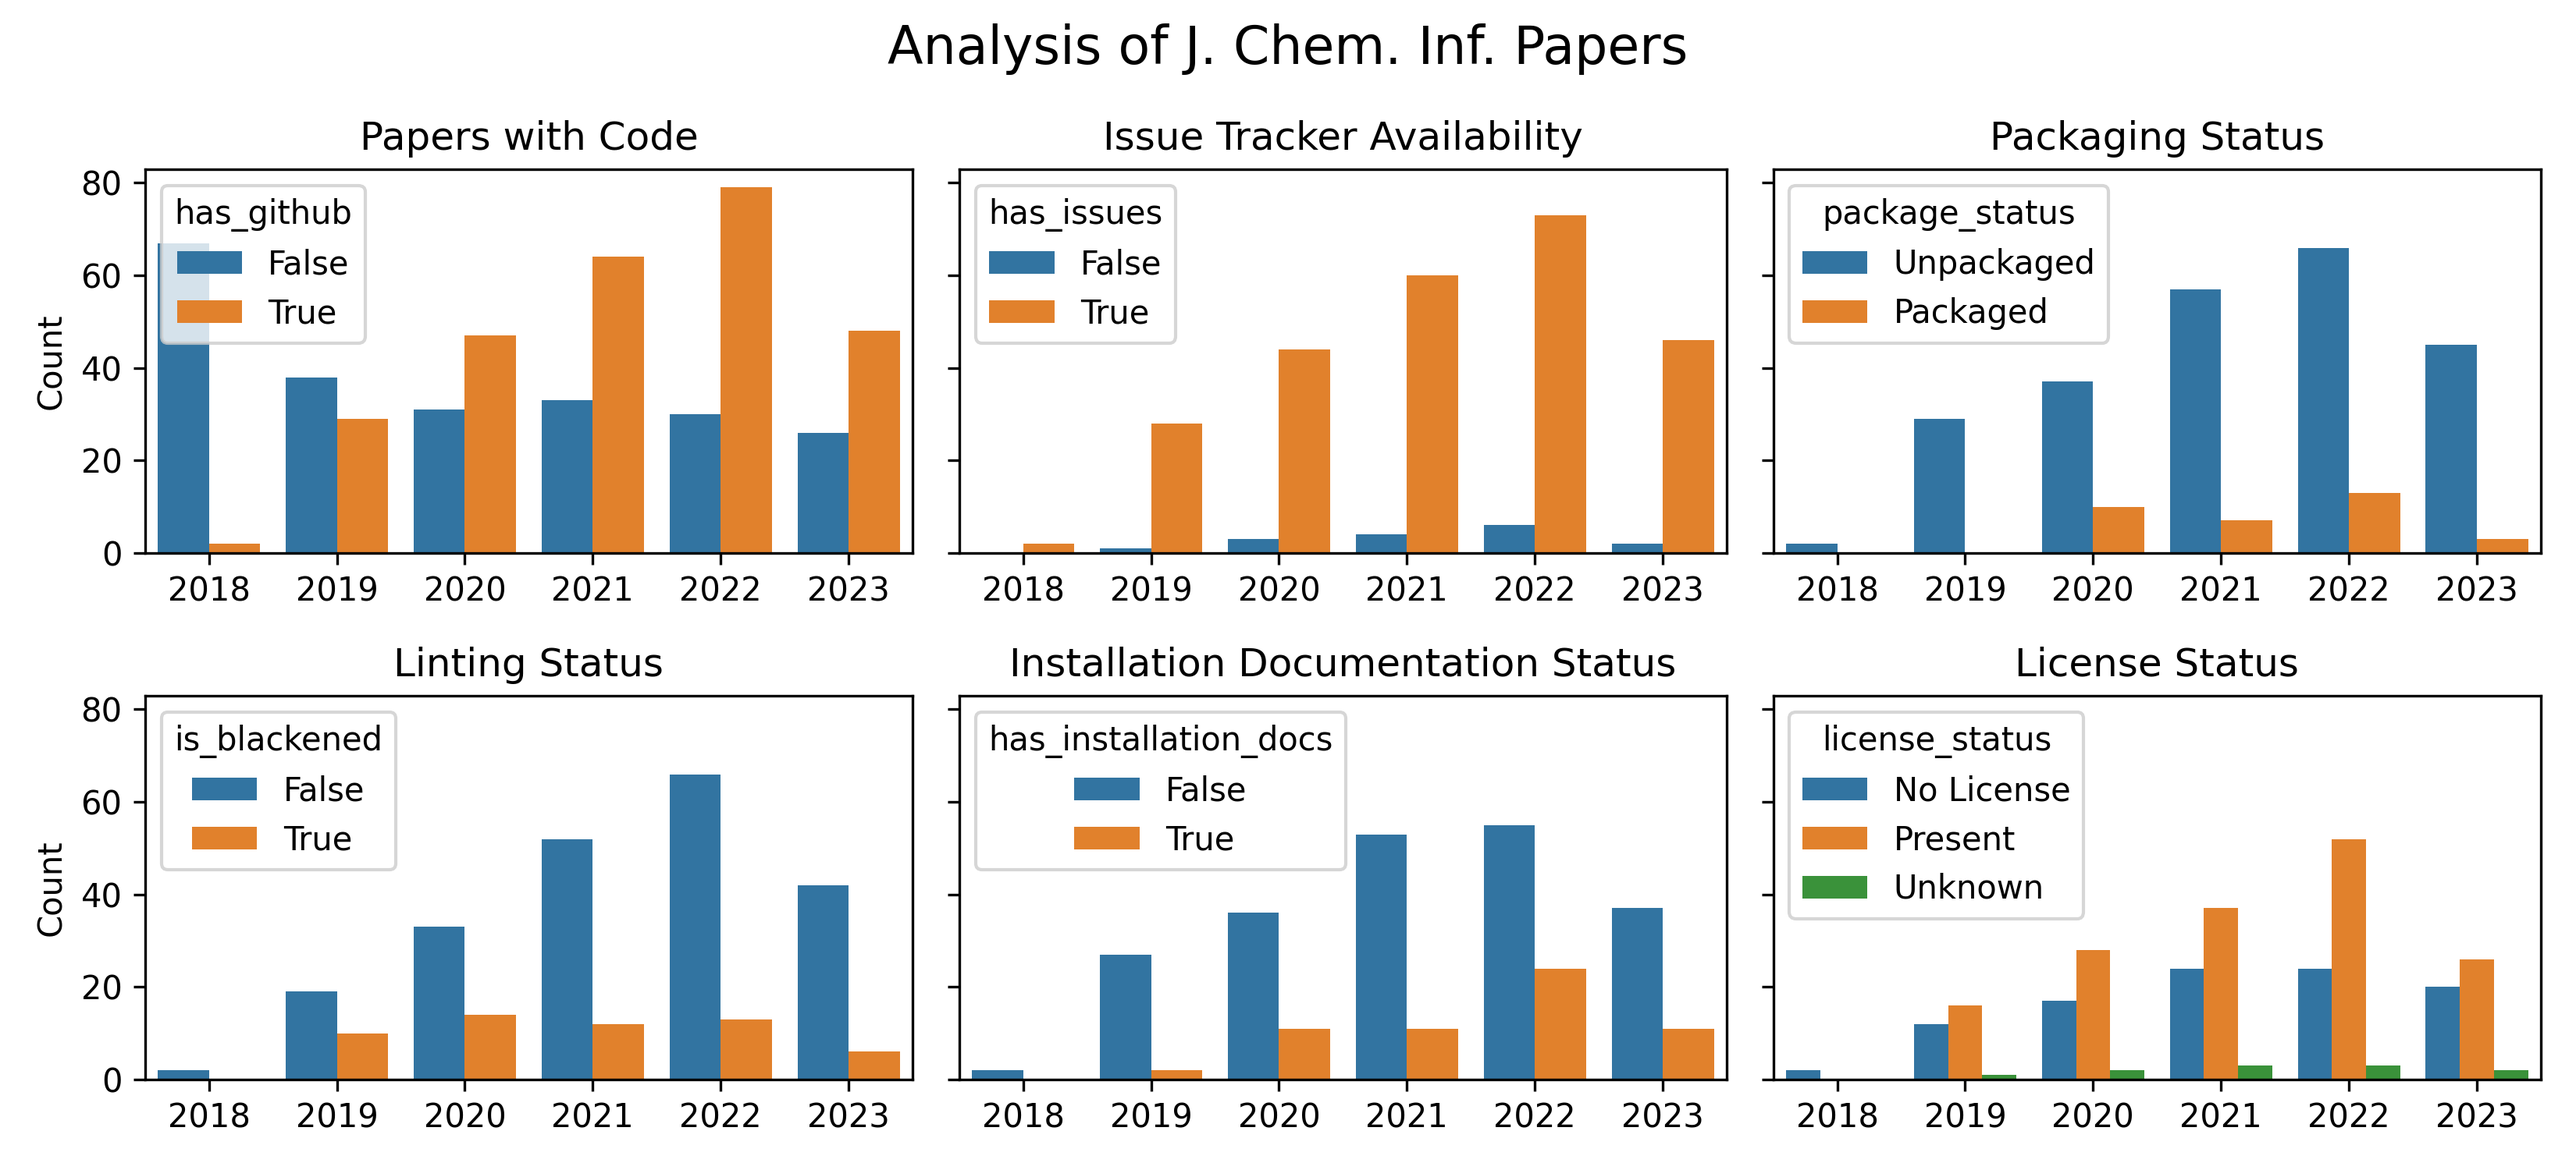
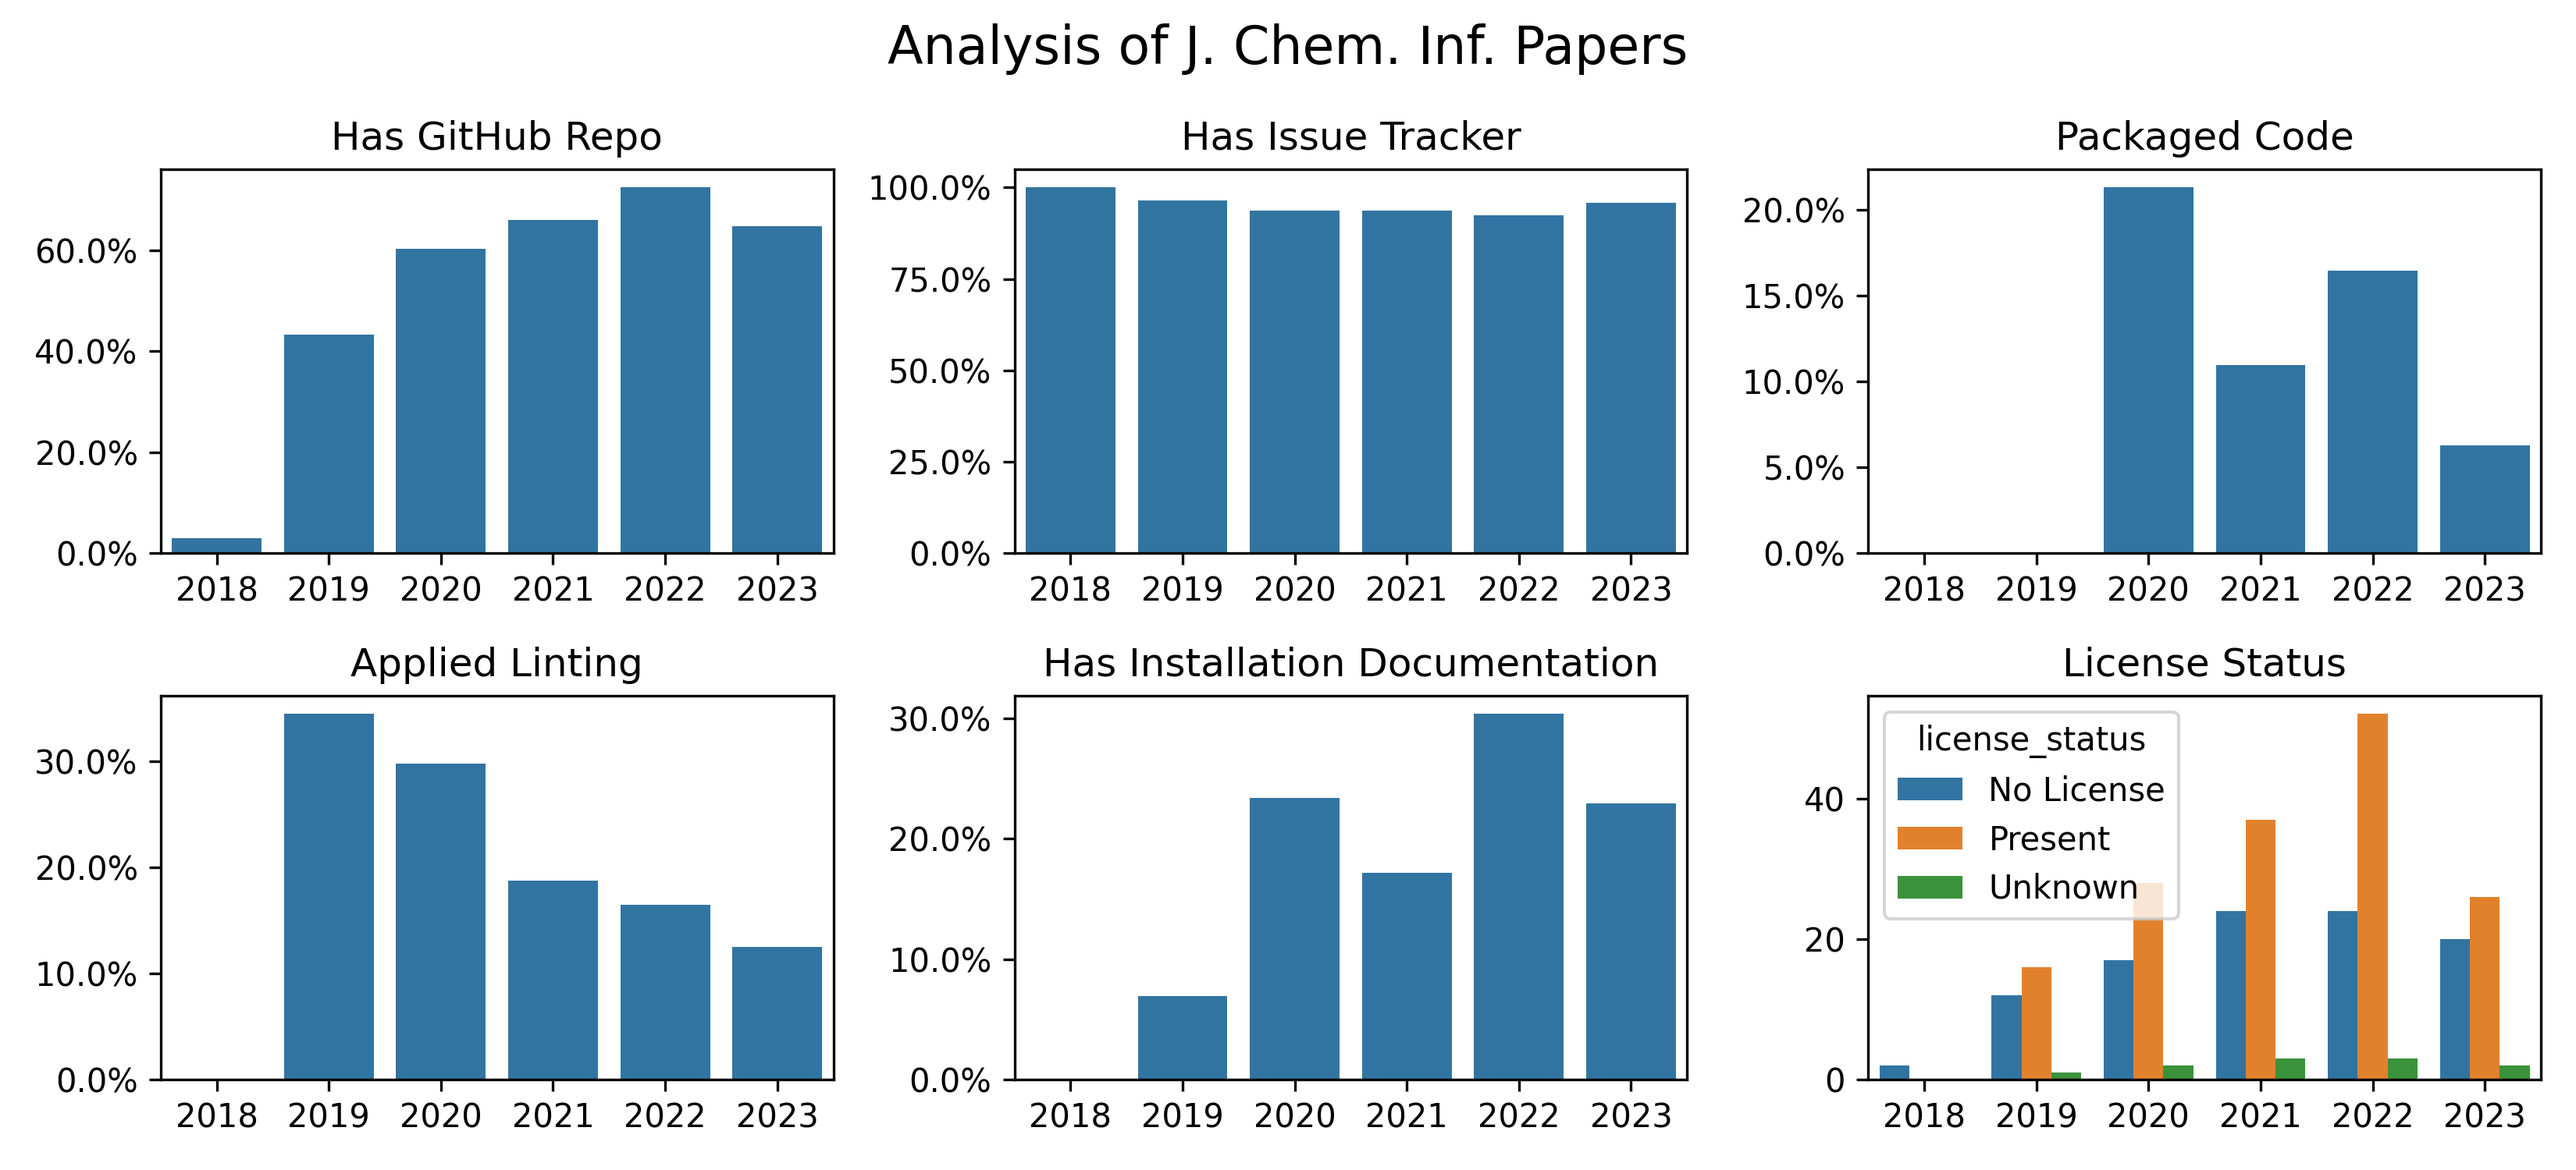
Use percentages for image

diff --git a/src/autoreviewer/jcheminf/summarize.py b/src/autoreviewer/jcheminf/summarize.py
@@ -5,15 +5,16 @@ import datetime
 import matplotlib.pyplot as plt
 import pandas as pd
 import seaborn as sns
+from matplotlib.ticker import FuncFormatter
 
 
 def _p_status(x):
     if pd.isna(x):
         return "No Repo"
     elif x <= 0:
-        return "Unpackaged"
+        return False
     else:
-        return "Packaged"
+        return True
 
 
 def _license_status(x):
@@ -25,9 +26,20 @@ def _license_status(x):
         return "Present"
 
 
+def _percentage(df, column):
+    series = df.groupby("year")[column].mean()
+    rdf = series.to_frame().reset_index()
+    return rdf
+
+
+def _percentage_axis(ax):
+    formatter = FuncFormatter(lambda y, _: "{:.1%}".format(y))
+    ax.yaxis.set_major_formatter(formatter)
+
+
 def main():
     """Generate summary charts."""
-    fig, axes = plt.subplots(2, 3, figsize=(11, 5), sharey=True)
+    fig, axes = plt.subplots(2, 3, figsize=(11, 5))
 
     axes = axes.ravel()
 
@@ -37,39 +49,61 @@ def main():
     df["date"] = pd.to_datetime(df["date"])
     df = df[df["date"].notna()]
     df["year"] = df["date"].dt.year
-    # 2017 was the first year where a repository was detected
+    # 2017 was the first year, where a repository was detected
     df = df[(2017 < df["year"]) & (df["year"] < today.year)]  # don't make ragged chart
 
-    sns.countplot(x="year", hue="has_github", data=df, ax=axes[0])
-    axes[0].set_ylabel("Count")
+    sns.barplot(x="year", y="has_github", data=_percentage(df, "has_github"), ax=axes[0])
+    axes[0].set_ylabel("")
     axes[0].set_xlabel("")
-    axes[0].set_title("Papers with Code")
+    axes[0].set_title("Has GitHub Repo")
+    _percentage_axis(axes[0])
 
-    sns.countplot(x="year", hue="has_issues", data=df[df["has_github"]], ax=axes[1])
-    axes[1].set_ylabel("Count")
+    sns.barplot(
+        x="year", y="has_issues", data=_percentage(df[df["has_github"]], "has_issues"), ax=axes[1]
+    )
+    axes[1].set_ylabel("")
     axes[1].set_xlabel("")
-    axes[1].set_title("Issue Tracker Availability")
+    axes[1].set_title("Has Issue Tracker")
+    _percentage_axis(axes[1])
 
     df["package_status"] = df["pyroma_score"].map(_p_status)
-    sns.countplot(x="year", hue="package_status", data=df[df["has_github"]], ax=axes[2])
+    sns.barplot(
+        x="year",
+        y="package_status",
+        data=_percentage(df[df["has_github"]], "package_status"),
+        ax=axes[2],
+    )
     axes[2].set_xlabel("")
-    axes[2].set_ylabel("Count")
-    axes[2].set_title("Packaging Status")
+    axes[2].set_ylabel("")
+    axes[2].set_title("Packaged Code")
+    _percentage_axis(axes[2])
 
-    sns.countplot(x="year", hue="is_blackened", data=df[df["has_github"]], ax=axes[3])
+    sns.barplot(
+        x="year",
+        y="is_blackened",
+        data=_percentage(df[df["has_github"]], "is_blackened"),
+        ax=axes[3],
+    )
     axes[3].set_xlabel("")
-    axes[3].set_ylabel("Count")
-    axes[3].set_title("Linting Status")
+    axes[3].set_ylabel("")
+    axes[3].set_title("Applied Linting")
+    _percentage_axis(axes[3])
 
-    sns.countplot(x="year", hue="has_installation_docs", data=df[df["has_github"]], ax=axes[4])
+    sns.barplot(
+        x="year",
+        y="has_installation_docs",
+        data=_percentage(df[df["has_github"]], "has_installation_docs"),
+        ax=axes[4],
+    )
     axes[4].set_xlabel("")
-    axes[4].set_ylabel("Count")
-    axes[4].set_title("Installation Documentation Status")
+    axes[4].set_ylabel("")
+    axes[4].set_title("Has Installation Documentation")
+    _percentage_axis(axes[4])
 
     df["license_status"] = df["license"].map(_license_status)
     sns.countplot(x="year", hue="license_status", data=df[df["has_github"]], ax=axes[5])
     axes[5].set_xlabel("")
-    axes[5].set_ylabel("Count")
+    axes[5].set_ylabel("")
     axes[5].set_title("License Status")
 
     plt.suptitle("Analysis of J. Chem. Inf. Papers", fontsize=16)
